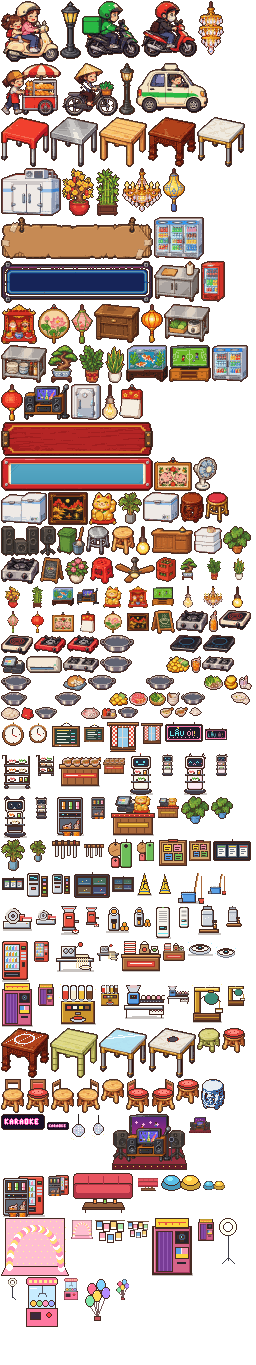
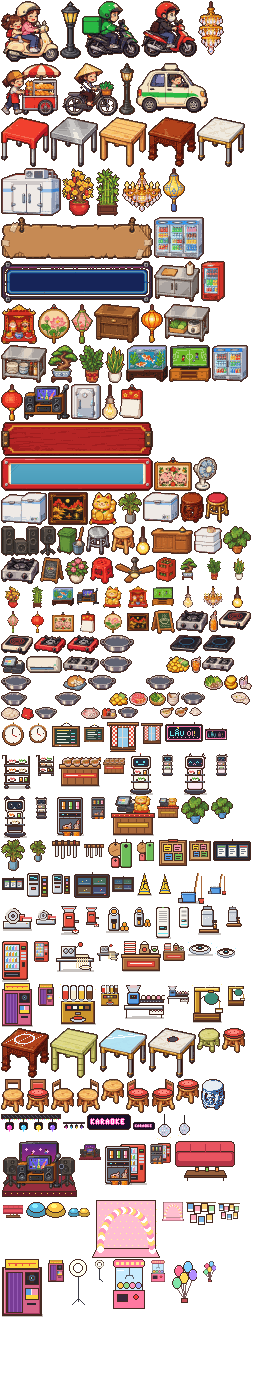
Lẩu Ơi v1.22: đơn ship tự làm + xác nhận, đèn LED vũ trường, phòng giải trí sáng về đêm
- Đơn ship: đầu bếp không tự nấu phiếu Ship; chủ quán tự soạn mâm, bấm Phục vụ → phiếu sáng vàng chờ xác nhận,
  chạm để kiểm đơn và "Xác nhận giao" thì Shipper mới ra lấy hàng
- Hộp mù thêm "Đèn LED vũ trường" (Cực hiếm): lắp trong phòng Karaoke, đèn quét màu + đốm sáng chạy khi quán mở
- Buổi tối phòng Karaoke & Photo không bị phủ tối như cả cảnh, có ánh đèn tím / hồng hắt ra
- Bảng "Có gì mới" v122

Claude-Session: https://claude.ai/code/session_01BD8ysNy2UsXiFAiTavnXvs

diff --git a/web/quanlau/src/art/data/props.js b/web/quanlau/src/art/data/props.js
@@ -1,2 +1,2 @@
 // generated by tools/art/pack.py — do not edit
-export default {"file":"props.png","frames":{"xemay2":[1,1,58,61,29,60],"lamp":[60,1,21,58,10,57],"grab":[82,1,58,57,29,56],"xemay":[141,1,56,56,28,55],"den_chum2":[198,1,26,54,13,1],"xebanhmi":[1,63,60,53,30,52],"xedap":[62,63,56,53,28,52],"lamp2":[119,63,16,52,8,51],"taxi":[136,63,72,50,36,49],"table0":[1,117,48,50,24,34],"table1":[50,117,48,50,24,34],"table2":[99,117,48,50,24,34],"table3":[148,117,48,50,24,34],"table4":[197,117,48,50,24,34],"kho4":[1,168,60,48,30,47],"cay_mai":[62,168,32,48,16,47],"cay_tre":[95,168,26,48,13,47],"den_chum1":[122,168,40,44,20,1],"den_hoian2":[163,168,22,44,11,1],"sign1":[1,217,152,43,76,21],"cooler2":[154,217,50,43,25,42],"sign4":[1,261,152,42,76,21],"counter_c":[154,261,46,41,23,40],"cooler0":[201,261,24,41,12,40],"db_ongdia":[1,304,36,40,18,39],"tuong_quat":[38,304,32,40,16,1],"den_hoian1":[71,304,22,40,11,1],"counter_wood":[94,304,46,39,23,38],"den_cam":[141,304,22,39,11,1],"counter_a":[164,304,46,38,23,37],"counter_b":[1,345,46,38,23,37],"cay_bonsai":[48,345,30,38,15,37],"cay_kimtien":[79,345,25,38,12,37],"cay_luoiho":[105,345,20,38,10,37],"db_beca":[126,345,42,37,21,36],"db_tivi":[169,345,42,37,21,36],"cooler1":[212,345,36,37,18,36],"den_long_do":[1,384,22,37,11,1],"db_karaoke":[24,384,46,36,23,35],"kho3":[71,384,30,36,15,35],"den_bong":[102,384,16,36,8,1],"tuong_lich":[119,384,24,35,12,1],"sign2":[1,422,152,34,76,17],"sign3":[1,457,152,34,76,17],"tuong_dongho":[154,457,38,34,19,1],"fan":[193,457,24,34,12,33],"kho2":[1,492,46,33,23,32],"tuong_sonmai":[48,492,40,33,20,32],"db_meo":[89,492,28,33,14,32],"plant_palm":[118,492,24,32,12,31],"kho1":[143,492,36,31,18,30],"stool3":[180,492,24,31,12,30],"stool4":[205,492,24,31,12,30],"spk2":[1,526,38,30,19,29],"spk1":[40,526,16,30,8,29],"bin":[57,526,28,29,14,28],"stool1":[86,526,24,29,12,28],"stool2":[111,526,24,29,12,28],"den_day":[136,526,14,29,7,1],"desk":[151,526,42,28,21,27],"kho0":[194,526,28,28,14,27],"plant_monstera":[223,526,28,28,14,27],"stove4":[1,557,38,27,19,26],"chalk":[40,557,24,27,12,26],"plant_flower":[65,557,24,27,12,26],"stool0":[90,557,24,27,12,26],"ceilfan":[115,557,40,26,20,25],"crates":[156,557,20,25,10,24],"ico_cay_bonsai":[177,557,24,24,12,12],"ico_cay_kimtien":[202,557,24,24,12,12],"ico_cay_luoiho":[227,557,24,24,12,12],"ico_cay_mai":[1,585,24,24,12,12],"ico_cay_tre":[26,585,24,24,12,12],"ico_db_beca":[51,585,24,24,12,12],"ico_db_karaoke":[76,585,24,24,12,12],"ico_db_meo":[101,585,24,24,12,12],"ico_db_ongdia":[126,585,24,24,12,12],"ico_db_tivi":[151,585,24,24,12,12],"ico_den_bong":[176,585,24,24,12,12],"ico_den_chum":[201,585,24,24,12,12],"ico_den_day":[226,585,24,24,12,12],"ico_den_hoian":[1,610,24,24,12,12],"ico_den_long_do":[26,610,24,24,12,12],"ico_tuong_dongho":[51,610,24,24,12,12],"ico_tuong_lich":[76,610,24,24,12,12],"ico_tuong_quat":[101,610,24,24,12,12],"ico_tuong_sonmai":[126,610,24,24,12,12],"menuboard":[151,610,24,24,12,23],"tburner4":[176,610,32,23,16,22],"bottle_orange":[209,610,9,22,4,21],"stove2":[219,610,32,20,16,19],"tburner2":[1,635,32,20,16,19],"stove0":[34,635,32,19,16,18],"tburner0":[67,635,32,19,16,18],"pot4_s":[100,635,34,18,17,17],"pot4_s_m":[135,635,34,18,17,17],"stove3":[170,635,32,18,16,17],"tburner3":[203,635,32,18,16,17],"pos":[1,656,24,18,12,17],"aircon":[26,656,36,17,18,16],"stove1":[63,656,36,17,18,16],"pot3_s":[100,656,32,17,16,16],"pot3_s_m":[133,656,32,17,16,16],"coin_l":[166,656,24,17,12,16],"cup_tea":[191,656,10,17,5,16],"tburner1":[202,656,32,16,16,15],"pot2_s":[1,675,30,16,15,15],"pot2_s_m":[32,675,30,16,15,15],"cat":[63,675,24,16,12,15],"pot1_s":[88,675,28,15,14,14],"pot1_s_m":[117,675,28,15,14,14],"pot4_t":[146,675,28,15,14,14],"pot4_t_m":[175,675,28,15,14,14],"plate_veg":[204,675,19,15,9,14],"coin_s":[224,675,14,15,7,14],"dirty_cup":[239,675,13,15,6,14],"pot0_s":[1,692,26,14,13,13],"pot0_s_m":[28,692,26,14,13,13],"pot3_t":[55,692,26,14,13,13],"pot3_t_m":[82,692,26,14,13,13],"coin_mid":[109,692,19,14,9,13],"plate_meat":[129,692,19,14,9,13],"plate_herb":[149,692,17,14,8,13],"dirty_bowls":[167,692,13,14,6,13],"pot2_t":[181,692,24,13,12,12],"pot2_t_m":[206,692,24,13,12,12],"dirty_plate":[231,692,19,13,9,12],"plate_noodle":[1,707,19,13,9,12],"reserved":[21,707,13,13,6,12],"pot1_t":[35,707,22,12,11,11],"pot1_t_m":[58,707,22,12,11,11],"plate_fish":[81,707,19,12,9,11],"condiments":[101,707,16,12,8,11],"pot0_t":[118,707,20,11,10,10],"pot0_t_m":[139,707,20,11,10,10],"bowl_noodle":[160,707,14,11,7,10],"bowl_sauce":[175,707,13,10,6,9],"napkins":[189,707,13,9,6,8],"tuong_clock":[1,722,24,26,12,1],"ico_tuong_clock":[26,722,24,24,12,12],"tuong_bangmon":[51,722,30,26,15,1],"ico_tuong_bangmon":[82,722,24,24,12,12],"tuong_rem":[107,722,32,30,16,1],"ico_tuong_rem":[140,722,24,24,12,12],"tuong_led":[165,722,38,20,19,1],"ico_tuong_led":[204,722,24,24,12,12],"db_xeday":[1,753,32,36,16,35],"ico_db_xeday":[34,753,24,24,12,12],"db_quaycham":[59,753,42,34,21,33],"ico_db_quaycham":[102,753,24,24,12,12],"db_robot":[127,753,28,42,14,41],"ico_db_robot":[156,753,24,24,12,12],"db_robotmeo":[181,753,28,42,14,41],"ico_db_robotmeo":[210,753,24,24,12,12],"db_robotgau":[1,796,28,42,14,41],"ico_db_robotgau":[30,796,24,24,12,12],"db_mayphanuoc":[55,796,30,40,15,39],"ico_db_mayphanuoc":[86,796,24,24,12,12],"db_quaythungan":[111,796,44,40,22,39],"ico_db_quaythungan":[156,796,24,24,12,12],"cay_trauba":[181,796,28,28,14,27],"ico_cay_trauba":[210,796,24,24,12,12],"cay_cau":[1,839,24,32,12,31],"ico_cay_cau":[26,839,24,24,12,12],"tuong_giadao":[51,839,30,20,15,1],"ico_tuong_giadao":[82,839,24,24,12,12],"tuong_thot":[107,839,26,30,13,1],"ico_tuong_thot":[134,839,24,24,12,12],"tuong_lichsk":[159,839,28,28,14,1],"ico_tuong_lichsk":[188,839,24,24,12,12],"tuong_kds":[213,839,38,22,19,1],"ico_tuong_kds":[1,872,24,24,12,12],"tuong_chamcong":[26,872,22,26,11,1],"ico_tuong_chamcong":[49,872,24,24,12,12],"tuong_camera":[74,872,36,26,18,1],"ico_tuong_camera":[111,872,24,24,12,12],"db_sanuot":[136,872,16,24,8,23],"ico_db_sanuot":[153,872,24,24,12,12],"db_choilau":[178,872,26,32,13,31],"ico_db_choilau":[205,872,24,24,12,12],"db_maythai":[1,905,32,26,16,25],"ico_db_maythai":[34,905,24,24,12,12],"db_mayxay":[59,905,20,30,10,29],"ico_db_mayxay":[80,905,24,24,12,12],"db_mayvatcam":[105,905,24,28,12,27],"ico_db_mayvatcam":[130,905,24,24,12,12],"db_locKK":[155,905,16,34,8,33],"ico_db_locKK":[172,905,24,24,12,12],"db_mayutra":[197,905,24,30,12,29],"ico_db_mayutra":[222,905,24,24,12,12],"db_bannuoc":[1,940,28,42,14,41],"ico_db_bannuoc":[30,940,24,24,12,12],"db_daychuyenmi":[55,940,40,32,20,31],"ico_db_daychuyenmi":[96,940,24,24,12,12],"db_donggoi":[121,940,40,32,20,31],"ico_db_donggoi":[162,940,24,24,12,12],"db_robotlau":[187,940,26,16,13,15],"ico_db_robotlau":[214,940,24,24,12,12],"db_photobooth":[1,983,32,44,16,43],"ico_db_photobooth":[34,983,24,24,12,12],"db_bachvi":[59,983,38,42,19,41],"ico_db_bachvi":[98,983,24,24,12,12],"db_xuongvien":[123,983,42,36,21,35],"ico_db_xuongvien":[166,983,24,24,12,12],"db_phatra":[191,983,32,40,16,39],"ico_db_phatra":[224,983,24,24,12,12],"tshape_tron":[1,1028,48,50,24,34],"tshape_tre":[50,1028,48,50,24,34],"tshape_kinh":[99,1028,48,50,24,34],"tshape_bepam":[148,1028,48,50,24,34],"cshape_tre":[197,1028,24,25,12,24],"cshape_dem":[222,1028,24,25,12,24],"cshape_tua":[1,1079,24,34,12,33],"cshape_tuadem":[26,1079,24,34,12,33],"cshape_tua_l":[51,1079,24,34,12,33],"cshape_tua_r":[76,1079,24,34,12,33],"cshape_tua_f":[101,1079,24,25,12,24],"cshape_tuadem_l":[126,1079,24,34,12,33],"cshape_tuadem_r":[151,1079,24,34,12,33],"cshape_tuadem_f":[176,1079,24,25,12,24],"cshape_banh":[201,1079,24,31,12,30],"gt_neon":[1,1114,44,16,22,1],"ico_gt_neon":[46,1114,24,24,12,12],"gt_disco":[71,1114,14,26,7,1],"ico_gt_disco":[86,1114,24,24,12,12],"gt_sankhau":[111,1114,76,58,38,57],"ico_gt_sankhau":[188,1114,24,24,12,12],"gt_quaynuoc":[1,1173,44,44,22,43],"ico_gt_quaynuoc":[46,1173,24,24,12,12],"gt_sofa":[71,1173,64,40,32,39],"ico_gt_sofa":[136,1173,24,24,12,12],"gt_gheluoi":[161,1173,40,18,20,17],"ico_gt_gheluoi":[202,1173,24,24,12,12],"gt_phong":[1,1218,68,58,34,57],"ico_gt_phong":[70,1218,24,24,12,12],"gt_polaroid":[95,1218,30,26,15,1],"ico_gt_polaroid":[126,1218,24,24,12,12],"gt_mayanh":[151,1218,42,58,21,57],"ico_gt_mayanh":[194,1218,24,24,12,12],"gt_denvong":[219,1218,18,46,9,45],"ico_gt_denvong":[1,1277,24,24,12,12],"gt_gapthu":[26,1277,32,50,16,49],"ico_gt_gapthu":[59,1277,24,24,12,12],"gt_bongbay":[84,1277,26,44,13,43],"ico_gt_bongbay":[111,1277,24,24,12,12]}};
+export default {"file":"props.png","frames":{"xemay2":[1,1,58,61,29,60],"lamp":[60,1,21,58,10,57],"grab":[82,1,58,57,29,56],"xemay":[141,1,56,56,28,55],"den_chum2":[198,1,26,54,13,1],"xebanhmi":[1,63,60,53,30,52],"xedap":[62,63,56,53,28,52],"lamp2":[119,63,16,52,8,51],"taxi":[136,63,72,50,36,49],"table0":[1,117,48,50,24,34],"table1":[50,117,48,50,24,34],"table2":[99,117,48,50,24,34],"table3":[148,117,48,50,24,34],"table4":[197,117,48,50,24,34],"kho4":[1,168,60,48,30,47],"cay_mai":[62,168,32,48,16,47],"cay_tre":[95,168,26,48,13,47],"den_chum1":[122,168,40,44,20,1],"den_hoian2":[163,168,22,44,11,1],"sign1":[1,217,152,43,76,21],"cooler2":[154,217,50,43,25,42],"sign4":[1,261,152,42,76,21],"counter_c":[154,261,46,41,23,40],"cooler0":[201,261,24,41,12,40],"db_ongdia":[1,304,36,40,18,39],"tuong_quat":[38,304,32,40,16,1],"den_hoian1":[71,304,22,40,11,1],"counter_wood":[94,304,46,39,23,38],"den_cam":[141,304,22,39,11,1],"counter_a":[164,304,46,38,23,37],"counter_b":[1,345,46,38,23,37],"cay_bonsai":[48,345,30,38,15,37],"cay_kimtien":[79,345,25,38,12,37],"cay_luoiho":[105,345,20,38,10,37],"db_beca":[126,345,42,37,21,36],"db_tivi":[169,345,42,37,21,36],"cooler1":[212,345,36,37,18,36],"den_long_do":[1,384,22,37,11,1],"db_karaoke":[24,384,46,36,23,35],"kho3":[71,384,30,36,15,35],"den_bong":[102,384,16,36,8,1],"tuong_lich":[119,384,24,35,12,1],"sign2":[1,422,152,34,76,17],"sign3":[1,457,152,34,76,17],"tuong_dongho":[154,457,38,34,19,1],"fan":[193,457,24,34,12,33],"kho2":[1,492,46,33,23,32],"tuong_sonmai":[48,492,40,33,20,32],"db_meo":[89,492,28,33,14,32],"plant_palm":[118,492,24,32,12,31],"kho1":[143,492,36,31,18,30],"stool3":[180,492,24,31,12,30],"stool4":[205,492,24,31,12,30],"spk2":[1,526,38,30,19,29],"spk1":[40,526,16,30,8,29],"bin":[57,526,28,29,14,28],"stool1":[86,526,24,29,12,28],"stool2":[111,526,24,29,12,28],"den_day":[136,526,14,29,7,1],"desk":[151,526,42,28,21,27],"kho0":[194,526,28,28,14,27],"plant_monstera":[223,526,28,28,14,27],"stove4":[1,557,38,27,19,26],"chalk":[40,557,24,27,12,26],"plant_flower":[65,557,24,27,12,26],"stool0":[90,557,24,27,12,26],"ceilfan":[115,557,40,26,20,25],"crates":[156,557,20,25,10,24],"ico_cay_bonsai":[177,557,24,24,12,12],"ico_cay_kimtien":[202,557,24,24,12,12],"ico_cay_luoiho":[227,557,24,24,12,12],"ico_cay_mai":[1,585,24,24,12,12],"ico_cay_tre":[26,585,24,24,12,12],"ico_db_beca":[51,585,24,24,12,12],"ico_db_karaoke":[76,585,24,24,12,12],"ico_db_meo":[101,585,24,24,12,12],"ico_db_ongdia":[126,585,24,24,12,12],"ico_db_tivi":[151,585,24,24,12,12],"ico_den_bong":[176,585,24,24,12,12],"ico_den_chum":[201,585,24,24,12,12],"ico_den_day":[226,585,24,24,12,12],"ico_den_hoian":[1,610,24,24,12,12],"ico_den_long_do":[26,610,24,24,12,12],"ico_tuong_dongho":[51,610,24,24,12,12],"ico_tuong_lich":[76,610,24,24,12,12],"ico_tuong_quat":[101,610,24,24,12,12],"ico_tuong_sonmai":[126,610,24,24,12,12],"menuboard":[151,610,24,24,12,23],"tburner4":[176,610,32,23,16,22],"bottle_orange":[209,610,9,22,4,21],"stove2":[219,610,32,20,16,19],"tburner2":[1,635,32,20,16,19],"stove0":[34,635,32,19,16,18],"tburner0":[67,635,32,19,16,18],"pot4_s":[100,635,34,18,17,17],"pot4_s_m":[135,635,34,18,17,17],"stove3":[170,635,32,18,16,17],"tburner3":[203,635,32,18,16,17],"pos":[1,656,24,18,12,17],"aircon":[26,656,36,17,18,16],"stove1":[63,656,36,17,18,16],"pot3_s":[100,656,32,17,16,16],"pot3_s_m":[133,656,32,17,16,16],"coin_l":[166,656,24,17,12,16],"cup_tea":[191,656,10,17,5,16],"tburner1":[202,656,32,16,16,15],"pot2_s":[1,675,30,16,15,15],"pot2_s_m":[32,675,30,16,15,15],"cat":[63,675,24,16,12,15],"pot1_s":[88,675,28,15,14,14],"pot1_s_m":[117,675,28,15,14,14],"pot4_t":[146,675,28,15,14,14],"pot4_t_m":[175,675,28,15,14,14],"plate_veg":[204,675,19,15,9,14],"coin_s":[224,675,14,15,7,14],"dirty_cup":[239,675,13,15,6,14],"pot0_s":[1,692,26,14,13,13],"pot0_s_m":[28,692,26,14,13,13],"pot3_t":[55,692,26,14,13,13],"pot3_t_m":[82,692,26,14,13,13],"coin_mid":[109,692,19,14,9,13],"plate_meat":[129,692,19,14,9,13],"plate_herb":[149,692,17,14,8,13],"dirty_bowls":[167,692,13,14,6,13],"pot2_t":[181,692,24,13,12,12],"pot2_t_m":[206,692,24,13,12,12],"dirty_plate":[231,692,19,13,9,12],"plate_noodle":[1,707,19,13,9,12],"reserved":[21,707,13,13,6,12],"pot1_t":[35,707,22,12,11,11],"pot1_t_m":[58,707,22,12,11,11],"plate_fish":[81,707,19,12,9,11],"condiments":[101,707,16,12,8,11],"pot0_t":[118,707,20,11,10,10],"pot0_t_m":[139,707,20,11,10,10],"bowl_noodle":[160,707,14,11,7,10],"bowl_sauce":[175,707,13,10,6,9],"napkins":[189,707,13,9,6,8],"tuong_clock":[1,722,24,26,12,1],"ico_tuong_clock":[26,722,24,24,12,12],"tuong_bangmon":[51,722,30,26,15,1],"ico_tuong_bangmon":[82,722,24,24,12,12],"tuong_rem":[107,722,32,30,16,1],"ico_tuong_rem":[140,722,24,24,12,12],"tuong_led":[165,722,38,20,19,1],"ico_tuong_led":[204,722,24,24,12,12],"db_xeday":[1,753,32,36,16,35],"ico_db_xeday":[34,753,24,24,12,12],"db_quaycham":[59,753,42,34,21,33],"ico_db_quaycham":[102,753,24,24,12,12],"db_robot":[127,753,28,42,14,41],"ico_db_robot":[156,753,24,24,12,12],"db_robotmeo":[181,753,28,42,14,41],"ico_db_robotmeo":[210,753,24,24,12,12],"db_robotgau":[1,796,28,42,14,41],"ico_db_robotgau":[30,796,24,24,12,12],"db_mayphanuoc":[55,796,30,40,15,39],"ico_db_mayphanuoc":[86,796,24,24,12,12],"db_quaythungan":[111,796,44,40,22,39],"ico_db_quaythungan":[156,796,24,24,12,12],"cay_trauba":[181,796,28,28,14,27],"ico_cay_trauba":[210,796,24,24,12,12],"cay_cau":[1,839,24,32,12,31],"ico_cay_cau":[26,839,24,24,12,12],"tuong_giadao":[51,839,30,20,15,1],"ico_tuong_giadao":[82,839,24,24,12,12],"tuong_thot":[107,839,26,30,13,1],"ico_tuong_thot":[134,839,24,24,12,12],"tuong_lichsk":[159,839,28,28,14,1],"ico_tuong_lichsk":[188,839,24,24,12,12],"tuong_kds":[213,839,38,22,19,1],"ico_tuong_kds":[1,872,24,24,12,12],"tuong_chamcong":[26,872,22,26,11,1],"ico_tuong_chamcong":[49,872,24,24,12,12],"tuong_camera":[74,872,36,26,18,1],"ico_tuong_camera":[111,872,24,24,12,12],"db_sanuot":[136,872,16,24,8,23],"ico_db_sanuot":[153,872,24,24,12,12],"db_choilau":[178,872,26,32,13,31],"ico_db_choilau":[205,872,24,24,12,12],"db_maythai":[1,905,32,26,16,25],"ico_db_maythai":[34,905,24,24,12,12],"db_mayxay":[59,905,20,30,10,29],"ico_db_mayxay":[80,905,24,24,12,12],"db_mayvatcam":[105,905,24,28,12,27],"ico_db_mayvatcam":[130,905,24,24,12,12],"db_locKK":[155,905,16,34,8,33],"ico_db_locKK":[172,905,24,24,12,12],"db_mayutra":[197,905,24,30,12,29],"ico_db_mayutra":[222,905,24,24,12,12],"db_bannuoc":[1,940,28,42,14,41],"ico_db_bannuoc":[30,940,24,24,12,12],"db_daychuyenmi":[55,940,40,32,20,31],"ico_db_daychuyenmi":[96,940,24,24,12,12],"db_donggoi":[121,940,40,32,20,31],"ico_db_donggoi":[162,940,24,24,12,12],"db_robotlau":[187,940,26,16,13,15],"ico_db_robotlau":[214,940,24,24,12,12],"db_photobooth":[1,983,32,44,16,43],"ico_db_photobooth":[34,983,24,24,12,12],"db_bachvi":[59,983,38,42,19,41],"ico_db_bachvi":[98,983,24,24,12,12],"db_xuongvien":[123,983,42,36,21,35],"ico_db_xuongvien":[166,983,24,24,12,12],"db_phatra":[191,983,32,40,16,39],"ico_db_phatra":[224,983,24,24,12,12],"tshape_tron":[1,1028,48,50,24,34],"tshape_tre":[50,1028,48,50,24,34],"tshape_kinh":[99,1028,48,50,24,34],"tshape_bepam":[148,1028,48,50,24,34],"cshape_tre":[197,1028,24,25,12,24],"cshape_dem":[222,1028,24,25,12,24],"cshape_tua":[1,1079,24,34,12,33],"cshape_tuadem":[26,1079,24,34,12,33],"cshape_tua_l":[51,1079,24,34,12,33],"cshape_tua_r":[76,1079,24,34,12,33],"cshape_tua_f":[101,1079,24,25,12,24],"cshape_tuadem_l":[126,1079,24,34,12,33],"cshape_tuadem_r":[151,1079,24,34,12,33],"cshape_tuadem_f":[176,1079,24,25,12,24],"cshape_banh":[201,1079,24,31,12,30],"gt_led":[1,1114,60,18,30,1],"ico_gt_led":[62,1114,24,24,12,12],"gt_neon":[87,1114,44,16,22,1],"ico_gt_neon":[132,1114,24,24,12,12],"gt_disco":[157,1114,14,26,7,1],"ico_gt_disco":[172,1114,24,24,12,12],"gt_sankhau":[1,1141,76,58,38,57],"ico_gt_sankhau":[78,1141,24,24,12,12],"gt_quaynuoc":[103,1141,44,44,22,43],"ico_gt_quaynuoc":[148,1141,24,24,12,12],"gt_sofa":[173,1141,64,40,32,39],"ico_gt_sofa":[1,1200,24,24,12,12],"gt_gheluoi":[26,1200,40,18,20,17],"ico_gt_gheluoi":[67,1200,24,24,12,12],"gt_phong":[92,1200,68,58,34,57],"ico_gt_phong":[161,1200,24,24,12,12],"gt_polaroid":[186,1200,30,26,15,1],"ico_gt_polaroid":[217,1200,24,24,12,12],"gt_mayanh":[1,1259,42,58,21,57],"ico_gt_mayanh":[44,1259,24,24,12,12],"gt_denvong":[69,1259,18,46,9,45],"ico_gt_denvong":[88,1259,24,24,12,12],"gt_gapthu":[113,1259,32,50,16,49],"ico_gt_gapthu":[146,1259,24,24,12,12],"gt_bongbay":[171,1259,26,44,13,43],"ico_gt_bongbay":[198,1259,24,24,12,12]}};

diff --git a/web/quanlau/src/art/scenes.js b/web/quanlau/src/art/scenes.js
@@ -841,7 +841,7 @@ function poolCanvas(r, kind) {
   let c = poolCache.get(key);
   if (c || !hasDOM) return c;
   const R_ = Math.round(r * DETAIL), c2 = canvas(R_ * 2 + 2, R_ * 2 + 2), g = c2.getContext('2d');
-  const col = kind === 'cool' ? '130,176,255' : '255,178,100';
+  const col = kind === 'cool' ? '130,176,255' : kind === 'pink' ? '255,150,210' : kind === 'violet' ? '190,120,255' : kind === 'white' ? '255,240,235' : '255,178,100';
   const steps = 5;
   for (let i = 0; i < steps; i++) {
     const ri = Math.round(R_ * (1 - i / steps));
@@ -858,6 +858,52 @@ function pool(ctx, x, y, r, kind, a) {
   ctx.drawImage(c, Math.round(x - r - U), Math.round(y - r - U), c.width * U, c.height * U);
 }
 
+/** v1.22 các phòng giải trí đang mở (để đêm vẫn sáng). */
+function funLit(env) {
+  const L = env.layout, FN = L && L.fun;
+  if (!FN || !(env.funLevel > 0)) return [];
+  const out = [];
+  for (const fl of [1, 2]) if (env.funLevel >= fl && FN.rooms[fl]) out.push(Object.assign({ floor: fl }, FN.rooms[fl]));
+  return out;
+}
+/** v1.22 Đèn LED vũ trường (Hộp mù) đã lắp trong phòng Karaoke: chùm đèn quét màu + đốm sáng chạy trên sàn khi quán mở. */
+export function drawFunFx(ctx, env) {
+  try {
+    const L = env.layout, FN = L && L.fun;
+    if (!FN || (env.funLevel | 0) < 2 || !env.open || !(env.fun || []).includes('gt_led')) return;
+    const d = DECO_FUN.gt_led, r = FN.rooms[2], t = env.t || 0;
+    if (!d || !r) return;
+    const night = nightK(env.clock == null ? 600 : env.clock);
+    const a0 = 0.16 + 0.22 * night;
+    const COLS = ['255,80,200', '90,210,255', '255,220,70', '170,110,255'];
+    ctx.save();
+    ctx.beginPath(); ctx.rect(r.x0, r.y0, r.x1 - r.x0, r.y1 - r.y0); ctx.clip();
+    ctx.globalCompositeOperation = 'lighter';
+    const beat = 0.75 + 0.25 * Math.abs(Math.sin(t * 4.2));
+    [-11, -4, 3.5, 10.5].forEach((dx, i) => {
+      const hx = d.x + dx, hy = d.y + 8;
+      const ang = Math.sin(t * (0.9 + i * 0.27) + i * 1.7) * 0.75;
+      const len = r.y1 - hy + 6, spread = 7 + 2 * Math.sin(t * 1.3 + i);
+      const fx = hx + Math.sin(ang) * len, fy = hy + Math.cos(ang) * len;
+      const nx = Math.cos(ang) * spread, ny = -Math.sin(ang) * spread;
+      const g = ctx.createLinearGradient(hx, hy, fx, fy);
+      g.addColorStop(0, `rgba(${COLS[i]},${(a0 * 1.6 * beat).toFixed(3)})`); g.addColorStop(1, `rgba(${COLS[i]},0)`);
+      ctx.fillStyle = g;
+      ctx.beginPath(); ctx.moveTo(hx - 0.8, hy); ctx.lineTo(fx - nx, fy - ny); ctx.lineTo(fx + nx, fy + ny); ctx.lineTo(hx + 0.8, hy); ctx.closePath(); ctx.fill();
+      const sx = hx + Math.sin(ang) * (r.y1 - 12 - hy) * 0.95, sy = r.y1 - 12 - 18 * Math.abs(Math.cos(t * 0.7 + i));   // đốm sáng trên sàn
+      ctx.fillStyle = `rgba(${COLS[i]},${(a0 * 1.3 * beat).toFixed(3)})`;
+      ctx.beginPath(); ctx.ellipse(sx, sy, 7, 3, 0, 0, Math.PI * 2); ctx.fill();
+      ctx.fillStyle = `rgba(255,255,255,${(0.5 * beat).toFixed(3)})`; ctx.fillRect(Math.round(hx) - 0.5, hy - 0.5, 1, 1);   // mắt đèn chớp
+    });
+    for (let i = 0; i < 18; i++) {                                         // hạt sáng li ti quay quanh phòng
+      const u = (i * 0.618 + t * 0.06 * (1 + (i % 3) * 0.3)) % 1, v = (i * 0.37 + Math.sin(t * 0.5 + i) * 0.1 + 1) % 1;
+      ctx.fillStyle = `rgba(${COLS[i % 4]},${(0.35 + 0.35 * night).toFixed(3)})`;
+      ctx.fillRect(Math.round(r.x0 + u * (r.x1 - r.x0)), Math.round(r.y0 + 8 + v * (r.y1 - r.y0 - 16)), 1, 1);
+    }
+    ctx.restore();
+  } catch (e) { ctx.globalCompositeOperation = 'source-over'; guard(e); }
+}
+
 export function drawLighting(ctx, view, env) {
   try {
     const clock = env.clock == null ? 600 : env.clock;
@@ -869,9 +915,18 @@ export function drawLighting(ctx, view, env) {
     col = lerpC(col, NIGHT, k * (1 - Math.min(0.6, lamp * 2.4)));
     if (wet) col = lerpC(col, [col[0] * RAIN[0] / 255, col[1] * RAIN[1] / 255, col[2] * RAIN[2] / 255], wet * (1 - 0.4 * k));
     const W = view.x1 - view.x0, H = view.y1 - view.y0;
+    // v1.22 phòng Karaoke & Photo đã mở: tối vẫn sáng đèn trong phòng (chỉ tối đi một ít, không phủ màu đêm cả cảnh)
+    const FR = funLit(env);
     ctx.globalCompositeOperation = 'multiply';
     ctx.fillStyle = `rgb(${col[0] | 0},${col[1] | 0},${col[2] | 0})`;
-    ctx.fillRect(view.x0, view.y0, W, H);
+    if (FR.length) {
+      ctx.save(); ctx.beginPath(); ctx.rect(view.x0, view.y0, W, H);
+      for (const r of FR) ctx.rect(r.x1, r.y0, r.x0 - r.x1, r.y1 - r.y0);        // ngược chiều → lỗ (nonzero)
+      ctx.clip(); ctx.fillRect(view.x0, view.y0, W, H); ctx.restore();
+      const rc = lerpC(WHITE, col, 0.22);
+      ctx.fillStyle = `rgb(${rc[0] | 0},${rc[1] | 0},${rc[2] | 0})`;
+      for (const r of FR) ctx.fillRect(r.x0, r.y0, r.x1 - r.x0, r.y1 - r.y0);
+    } else ctx.fillRect(view.x0, view.y0, W, H);
     ctx.globalCompositeOperation = 'source-over';
     if (k > 0.02) {
       ctx.globalCompositeOperation = 'screen';
@@ -893,6 +948,12 @@ export function drawLighting(ctx, view, env) {
         const sl = env.up ? lvl(env.up.sign) : 0, sg = L.sign;
         if (sl >= 2 && sg) pool(ctx, sg.x + sg.w / 2, sg.y + sg.h / 2 + 2, Math.min(60, sg.w * 0.42 + 6), sl >= 3 ? 'cool' : 'warm', k * (sl >= 3 ? 1 : 0.7));
         if (env.up && lvl(env.up.speaker) && L.equip.speaker) pool(ctx, L.equip.speaker.x, L.equip.speaker.y - 8, 10, 'cool', k * 0.5);
+        for (const r of FR) {                                            // v1.22 đèn trong phòng giải trí hắt ra
+          const cx = (r.x0 + r.x1) / 2, cy = (r.y0 + r.y1) / 2;
+          pool(ctx, cx, cy, 44, r.floor === 2 ? 'violet' : 'pink', k * 0.55 * (0.92 + 0.08 * Math.sin(t * 2.3 + r.floor)));
+          pool(ctx, cx - 26, cy - 8, 22, r.floor === 2 ? 'pink' : 'white', k * 0.45);
+          pool(ctx, cx + 26, cy + 6, 22, r.floor === 2 ? 'cool' : 'white', k * 0.4);
+        }
       }
       ctx.globalCompositeOperation = 'source-over';
       ctx.globalAlpha = 1;

diff --git a/web/quanlau/src/ui/dock.js b/web/quanlau/src/ui/dock.js
@@ -55,7 +55,7 @@ export function mountDock(root, sceneUi) {
     const plus = span('tplus', '+'); const drk = div('tdrk'); const sideEl = div('tside');
     const stI = ico('ui_check', 16, 'tst'); const bar = h('i'); const pb = div('pbar', bar);
     const el = h('button', { class: 'tk', dataset: { id: String(t.id) } }, num, potI, exI, plus, drk, sideEl, stI, pb);
-    onPress(el, () => { sfx('click'); const r = quiet('selectTicket', t.id); if (r.ok === false && r.msg) ctx.toast(r.msg, 'bad'); tickNow(); ctx.tutorial?.onAction?.('select'); });
+    onPress(el, () => { sfx('click'); if (t.status === 'confirm') { askShip(t); return; } const r = quiet('selectTicket', t.id); if (r.ok === false && r.msg) ctx.toast(r.msg, 'bad'); tickNow(); ctx.tutorial?.onAction?.('select'); });
     return { el, num, potI, exI, plus, drk, sideEl, stI, bar, drkKey: '', sideKey: '' };
   }
   function updateTicket(r, t, trayId) {
@@ -73,11 +73,23 @@ export function mountDock(root, sceneUi) {
     setClass(r.el, 'chef', t.status === 'chef');
     setClass(r.el, 'ready', t.status === 'ready' || t.status === 'carrying');
     setClass(r.el, 'extra', !!t.extra);
-    const st = t.status === 'chef' ? 'eq_knife' : (t.status === 'ready' ? 'ui_check' : (t.status === 'carrying' ? 'ui_speed' : null));
+    setClass(r.el, 'confirm', t.status === 'confirm');   // v1.22 mâm ship chờ xác nhận
+    const st = t.status === 'confirm' ? 'eq_truck' : t.status === 'chef' ? 'eq_knife' : (t.status === 'ready' ? 'ui_check' : (t.status === 'carrying' ? 'ui_speed' : null));
     if (st) { setIco(r.stI, st, 16); r.stI.style.display = ''; } else r.stI.style.display = 'none';
     setStyleVar(r.bar, '--p', Math.round(ratio * 20) * 5);
     setClass(r.el, 'p-ok', ratio > 0.5); setClass(r.el, 'p-mid', ratio <= 0.5 && ratio > 0.25); setClass(r.el, 'p-low', ratio <= 0.25);
-    r.el.disabled = t.status === 'chef' || t.status === 'ready' || t.status === 'carrying';
+    r.el.disabled = t.status === 'chef' || t.status === 'ready' || t.status === 'carrying';   // 'confirm' vẫn bấm được để xác nhận
+  }
+  // v1.22 đơn ship: chủ quán tự soạn mâm, xong thì kiểm lại đơn rồi bấm xác nhận cho Shipper đi giao
+  function askShip(t) {
+    const o = (ctx.game.world?.shipOrders || []).find((x) => x.ticketId === t.id || x.id === t.ship);
+    const lines = [POT[t.pot]?.name || 'Lẩu'];
+    (t.sides || []).forEach((d) => lines.push(ING[d]?.name || d));
+    (t.drinks || []).forEach((d) => lines.push(DRINK[d]?.name || d));
+    const left = Math.max(0, Math.round((t.patience || 0) - (t.waited || 0)));
+    ctx.confirm({ title: 'Xác nhận đơn ship #' + (t.ship || ''), icon: 'eq_truck', yes: 'Xác nhận giao', no: 'Để sau',
+      text: 'Đơn gồm: ' + lines.join(', ') + '.' + (o ? ' Giá món ' + Math.round(o.price) + 'k + phí ship.' : '') + ` Khách còn chờ khoảng ${left} phút. Kiểm đủ món rồi bấm xác nhận để Shipper ra lấy hàng nha.`,
+      onYes: () => { const r = act('confirmShip', t.id); if (r && r.ok !== false) { sfx('confirm'); vibrate?.(20); } tickNow(); } });
   }
   function updateTickets(trayId) {
     const list = (ctx.game.world?.tickets || []).filter((t) => t.status !== 'done');

diff --git a/web/quanlau/src/config.js b/web/quanlau/src/config.js
@@ -585,6 +585,7 @@ export const DECO = [
   { id: 'gt_mayanh', cat: 'giaitri', name: 'Máy chụp ảnh lấy liền (to)', price: 0, amb: 8, source: 'box', box: 'bx_gt_mayanh', fun: { floor: 1, x: 288, y: 246 }, effect: { demandMult: 1.05 }, desc: 'Khách +5%.' },
   { id: 'gt_gapthu', cat: 'giaitri', name: 'Máy gắp thú', price: 0, amb: 6, source: 'box', box: 'bx_gt_gapthu', fun: { floor: 1, x: 214, y: 288 }, effect: { patienceMult: 1.05 }, desc: 'Trẻ em mê lắm. Kiên nhẫn +5%.' },
   { id: 'gt_neon', cat: 'giaitri', name: 'Bảng neon KARAOKE', price: 0, amb: 4, source: 'box', box: 'bx_gt_neon', fun: { floor: 2, x: 222, y: 22, wall: true }, effect: { demandMult: 1.02 }, desc: 'Khách +2%.' },
+  { id: 'gt_led', cat: 'giaitri', name: 'Đèn LED vũ trường', price: 0, amb: 7, source: 'box', box: 'bx_gt_led', fun: { floor: 2, x: 250, y: 16, wall: true, fx: 'disco' }, effect: { demandMult: 1.03, tipMult: 1.03 }, desc: 'Lắp vào phòng Karaoke: đèn quét màu chạy theo nhạc. Khách +3%, tip +3%.' },
   { id: 'gt_disco', cat: 'giaitri', name: 'Quả cầu disco', price: 0, amb: 4, source: 'box', box: 'bx_gt_disco', fun: { floor: 2, x: 276, y: 17, wall: true }, effect: { tipMult: 1.03 }, desc: 'Tip +3%.' },
   { id: 'gt_sankhau', cat: 'giaitri', name: 'Sân khấu karaoke', price: 0, amb: 12, source: 'box', box: 'bx_gt_sankhau', fun: { floor: 2, x: 232, y: 79 }, effect: { demandMult: 1.06, patienceMult: 1.04 }, desc: 'Màn hình, loa, micro đủ bộ. Khách +6%, kiên nhẫn +4%.' },
   { id: 'gt_quaynuoc', cat: 'giaitri', name: 'Quầy nước karaoke', price: 0, amb: 6, source: 'box', box: 'bx_gt_quaynuoc', fun: { floor: 2, x: 288, y: 86 }, effect: { tipMult: 1.05 }, desc: 'Tip +5%.' },
@@ -1073,6 +1074,7 @@ export const BOX = {
     { id: 'bx_gt_mayanh', grp: 'giaitri', r: 3, kind: 'deco', ref: 'gt_mayanh', name: 'Máy chụp ảnh lấy liền (to)' },
     { id: 'bx_gt_gapthu', grp: 'giaitri', r: 2, kind: 'deco', ref: 'gt_gapthu', name: 'Máy gắp thú' },
     { id: 'bx_gt_neon', grp: 'giaitri', r: 1, kind: 'deco', ref: 'gt_neon', name: 'Bảng neon KARAOKE' },
+    { id: 'bx_gt_led', grp: 'giaitri', r: 3, kind: 'deco', ref: 'gt_led', name: 'Đèn LED vũ trường' },   // v1.22
     { id: 'bx_gt_disco', grp: 'giaitri', r: 1, kind: 'deco', ref: 'gt_disco', name: 'Quả cầu disco' },
     { id: 'bx_gt_sankhau', grp: 'giaitri', r: 4, kind: 'deco', ref: 'gt_sankhau', name: 'Sân khấu karaoke' },
     { id: 'bx_gt_quaynuoc', grp: 'giaitri', r: 2, kind: 'deco', ref: 'gt_quaynuoc', name: 'Quầy nước karaoke' },

diff --git a/web/quanlau/src/ui/whatsnew.js b/web/quanlau/src/ui/whatsnew.js
@@ -8,11 +8,16 @@ import { confettiFor } from './screens/kit.js';
 
 export const NEWS = {
   // owner 22/10: "bản thông báo chỉ hiển thị một lần" — mỗi bản cập nhật hiện ĐÚNG 1 lần (nhớ cả trong save lẫn trên máy).
-  ver: 120,
+  ver: 122,
   title: 'Có gì mới trong Lẩu Ơi!',
-  hero: 'Khu Karaoke & Photo mở bán vé!',
+  hero: 'Đèn LED vũ trường + tự làm đơn ship!',
   items: [
-    { icon: 'ui_ticket', title: 'Bán vé Karaoke & Photo', lv: 28, isNew: true,
+    { icon: 'eq_truck', title: 'Đơn ship: tự làm + xác nhận', lv: C.FEATURES.ship, isNew: true,
+      text: 'Đầu bếp không tự nấu phiếu **Ship** nữa: chủ quán chạm phiếu Ship, **tự soạn mâm** rồi bấm Phục vụ. Phiếu sáng vàng thì chạm lần nữa để **kiểm đơn & Xác nhận giao**, Shipper mới ra lấy hàng.' },
+    { icon: 'ui_hopmu', title: 'Đèn LED vũ trường', lv: 28, isNew: true,
+      text: 'Món mới **Cực hiếm** trong **Hộp mù**: lắp vào phòng Karaoke là đèn quét màu chạy theo nhạc khi quán mở. Buổi tối phòng **Karaoke & Photo** giờ sáng đèn rực rỡ.',
+      go: ['shop', 'hopmu'], goLabel: 'Mở Hộp mù' },
+    { icon: 'ui_ticket', title: 'Bán vé Karaoke & Photo', lv: 28,
       text: 'Khu vui chơi bên phải nhà hàng 2 lầu giờ có **khách mua vé ra vào**: chụp ảnh ở Photo Studio tầng trệt, đi **cầu thang mới** lên lầu hát Karaoke. Đặt giá vé ở **Thực đơn ▸ Giá bán ▸ Vé Karaoke & Photo**. Bày thêm đồ trong phòng để có thêm chỗ chơi.',
       go: ['menu', 'gia'], goLabel: 'Đặt giá vé' },
     { icon: 'ui_hopmu', title: 'Phòng giải trí + dãy bên 2 lầu', lv: 28,

diff --git a/web/quanlau/src/ui/toast.js b/web/quanlau/src/ui/toast.js
@@ -100,8 +100,10 @@ export function mountToasts({ toastRoot, sceneUi }) {
   on('review', (p) => { const r = p.review || p; if (r && (r.stars >= 4 || r.stars <= 2)) ctx.reviewPop(r); });
   on('rush', (p) => { if (p.on) ctx.banner('GIỜ CAO ĐIỂM! KHÁCH ĐÔNG!', 'red'); });
   // v1.16 đơn ship
-  on('shipOrder', (p) => { const o = p.order || {}; const n = (o.drinks || []).length; ctx.toast(`Có đơn ship: ${POT[o.pot]?.name || 'Lẩu'}${n ? ` + ${n} nước` : ''}. Nấu xong Shipper đi giao!`, 'info', 'eq_truck'); });
+  on('shipOrder', (p) => { const o = p.order || {}; const n = (o.drinks || []).length; ctx.toast(`Có đơn ship: ${POT[o.pot]?.name || 'Lẩu'}${n ? ` + ${n} nước` : ''}. Tự tay soạn mâm rồi xác nhận đơn để Shipper đi giao!`, 'info', 'eq_truck'); });
   on('shipDelivered', (p) => ctx.toast(`Shipper giao xong đơn ${POT[p.order?.pot]?.name || ''} (${p.mins} phút, ${p.stars}★) +${fmtMoney(p.amount)}`, p.stars >= 4 ? 'good' : 'info', 'eq_truck'));
+  on('shipMade', () => ctx.toast('Mâm ship xong! Chạm vào phiếu Ship để kiểm & xác nhận đơn.', 'info', 'eq_truck'));
+  on('shipConfirmed', () => ctx.toast('Đã xác nhận đơn — Shipper ra lấy hàng đi giao!', 'good', 'eq_truck'));
   on('shipCancelled', () => ctx.toast('Khách hủy đơn ship vì chờ lâu quá!', 'bad', 'eq_truck'));
   on('lotteryLady', (p) => { if (p.on) ctx.toast('Cô bán vé số ghé quán kìa — chạm vào cô để mua vé nha!', 'info', 'ui_ticket'); });
   on('stockLow', (p) => ctx.toast(`Sắp hết ${ING[p.ing]?.name?.toLowerCase() || 'hàng'} rồi!`, 'bad', ING[p.ing]?.icon));

diff --git a/web/quanlau/src/core/kitchen.js b/web/quanlau/src/core/kitchen.js
@@ -128,12 +128,30 @@ export function serveAct(G) {
   if (!t) return fail('noTicket', 'Chưa chọn phiếu nào nha!');
   const info = trayStatus(G);
   if (missingIngredients(t).length || needsDrinks(t) || !info.canServe) return fail('incomplete', 'Mâm chưa đủ, kiểm tra lại nha!');
-  t.status = 'ready';
   t.maker = { type: 'owner' };
   t.readyAt = G.world.tMin;
   G.world.tray.ticketId = null;
+  if (t.ship) {                                   // v1.22 đơn ship: làm xong chờ chủ quán kiểm & xác nhận rồi Shipper mới lấy
+    t.status = 'confirm';
+    G.emit('shipMade', { ticketId: t.id, ship: t.ship });
+    return { ok: true, ticketId: t.id, ship: true };
+  }
+  t.status = 'ready';
   G.emit('ticketReady', { ticketId: t.id, by: 'player' });
   return { ok: true, ticketId: t.id };
+}
+
+/** v1.22 xác nhận đơn ship đã làm xong: đúng món → giao cho Shipper. */
+export function confirmShipAct(G, id) {
+  const t = findTicket(G, id);
+  if (!t || !t.ship) return fail('noTicket', 'Đơn ship này không còn nữa.');
+  if (t.status !== 'confirm') return fail('notReady', 'Làm xong mâm đơn ship trước rồi mới xác nhận nha!');
+  t.status = 'ready';
+  t.confirmedAt = G.world.tMin;
+  G.counter('shipConfirm', 1);
+  G.emit('ticketReady', { ticketId: t.id, by: 'player' });
+  G.emit('shipConfirmed', { ticketId: t.id, ship: t.ship });
+  return { ok: true };
 }
 
 export { DRINK };

diff --git a/web/quanlau/src/render/renderer.js b/web/quanlau/src/render/renderer.js
@@ -4,7 +4,7 @@
 // at integer world coordinates and lands 1:1 on buffer pixels.
 import {
   drawSceneBack, sceneDrawables, drawSceneFront, drawTable, drawStove, drawCoinPile, drawBubble, drawParticle,
-  drawVehicle, drawWeather, drawFunDoor, drawCanopy, drawLighting, drawChar, makeLook, makeOwnerLook, makeStaffLook, setSkins, setSitLift, sitLiftFor,
+  drawVehicle, drawWeather, drawFunDoor, drawFunFx, drawCanopy, drawLighting, drawChar, makeLook, makeOwnerLook, makeStaffLook, setSkins, setSitLift, sitLiftFor,
 } from '../art/index.js';
 import { PAL } from '../art/palette.js';
 import { TIME, RAIN, DECO, TIERS } from '../config.js';
@@ -602,6 +602,7 @@ export function createRenderer(canvas, game) {
     const hole = roofed ? { x0: view.x0 - 2, y0: view.y0 - 2, x1: view.x1 + 2, y1: L.lane.y - 12 } : cp && tarpK > 0.6 ? { x0: cp.x0, y0: cp.yTop, x1: cp.x1, y1: cp.ground } : null;
     drawWeather(bctx, view, wxNow, time, hole);
     drawLighting(bctx, view, env);
+    drawFunFx(bctx, env);   // v1.22 đèn LED vũ trường phòng Karaoke
     drawBubbles(w);
     fx.drawParticles(bctx, drawParticle);
 

diff --git a/web/quanlau/src/core/game.js b/web/quanlau/src/core/game.js
@@ -205,7 +205,7 @@ export function createGame(save, opts = {}) {
       quests.rollDaily(G);
       G.mom('start');
       G.emit('phase', { phase: 'prep' });
-      state.flags.ui.seenNews = 120;   // v1.16 người chơi mới không cần bảng "Có gì mới"
+      state.flags.ui.seenNews = 122;   // v1.16 người chơi mới không cần bảng "Có gì mới"
       return { ok: true };
     }),
     openShop: wrap(() => day.openShop(G)),
@@ -215,6 +215,7 @@ export function createGame(save, opts = {}) {
     addIngredient: wrap((ing) => kitchen.addIngredientAct(G, ing)),
     addDrinks: wrap(() => kitchen.addDrinksAct(G)),
     serve: wrap(() => kitchen.serveAct(G)),
+    confirmShip: wrap((id) => kitchen.confirmShipAct(G, id)),   // v1.22
     collect: wrap((tableIdx) => customers.collectCoins(G, tableIdx, 'player')),
     buyIngredient: wrap((ing, qty) => buyIngredient(G, ing, qty)),
     // v1.13 / v2.9: quà từ mã quà tặng (máy chủ đã kiểm tra mã). XP cộng đúng số ghi trên mã (không nhân xpGainMult).

diff --git a/web/quanlau/style.css b/web/quanlau/style.css
@@ -1694,3 +1694,8 @@ button.hchip:active { transform: translateY(2px); }
 .deco-slots .num { font-size: 18px; line-height: .8; margin-left: 2px; }
 .deco-act { display: flex; flex-wrap: wrap; gap: 4px; justify-content: center; }
 .cl-gate-backup { color: #d2433b; }   /* 22/10 link dự phòng khi tên miền .io.vn lỗi */
+/* v1.22 mâm ship làm xong chờ xác nhận: nhấp nháy để chủ quán bấm */
+.tk.confirm { background: #fff3c4; --depth: #e8c96a; box-shadow: 0 0 0 2px #e0a52b, 0 3px 0 2px #b9801c; animation: tkConfirm 1s ease-in-out infinite; }
+.tk.confirm .tb { background: #e0a52b; }
+@keyframes tkConfirm { 50% { transform: translateY(-2px); box-shadow: 0 0 0 3px #ffd25a, 0 4px 0 2px #b9801c; } }
+@media (prefers-reduced-motion: reduce) { .tk.confirm { animation: none; } }

diff --git a/web/quanlau/src/art/assets.js b/web/quanlau/src/art/assets.js
@@ -8,7 +8,7 @@
 // drawn with blit() at a world position lands 1:1 on buffer pixels (crisp, no resampling).
 // Keep DETAIL in sync with `DETAIL` in src/render/renderer.js.
 export const DETAIL = 2;
-export const ASSET_VER = 'l21b';   // v1.18n: icons.png + props.png có thêm khung mới (Hộp mù) — PHẢI tăng khi đổi PNG
+export const ASSET_VER = 'l22';   // v1.18n: icons.png + props.png có thêm khung mới (Hộp mù) — PHẢI tăng khi đổi PNG
 /** khung có nằm trong ảnh đã tải không (ảnh cũ trong bộ nhớ đệm + dữ liệu khung mới → Safari báo lỗi drawImage) */
 export const frameOk = (rec, f) => !!(rec && rec.img && f) && f[0] + f[2] <= (rec.img.naturalWidth || rec.img.width) && f[1] + f[3] <= (rec.img.naturalHeight || rec.img.height);
 

diff --git a/web/quanlau/sw.js b/web/quanlau/sw.js
@@ -1,7 +1,7 @@
 // Lẩu Ơi! service worker (v1.2): makes the game installable as an app (Android "Cài đặt ứng dụng", desktop Chrome/Edge)
 // and lets it open without a connection. Network first: an online player always gets the newest files; the cached
 // copy is only used when the network fails. Saves live in localStorage and are never touched here.
-const CACHE = 'lauoi-v56';
+const CACHE = 'lauoi-v57';
 // Trang thật là /quanlau (vercel.json: trailingSlash:false) nên scope là "/quanlau", không phải "/quanlau/".
 const HOME = '/quanlau';
 const CORE = [HOME, 'index.html', 'style.css', 'manifest.json', 'src/main.js', 'assets/app/icon-192.png'];
